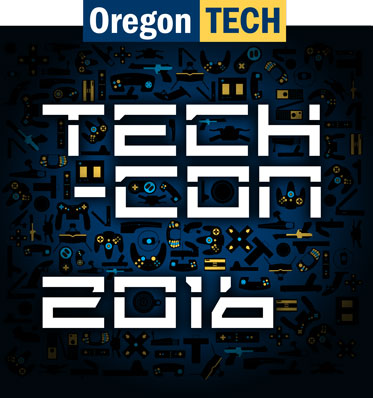
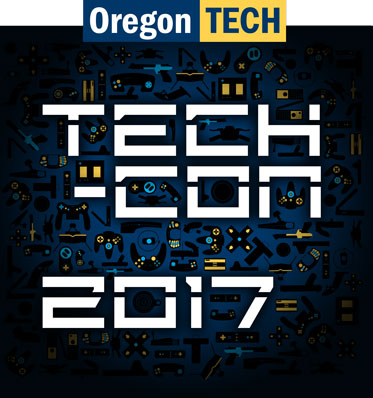
Updated to 2017 dates

Changed region(s): [[0.5308, 0.6633, 0.7668, 0.8442]]

diff --git a/site/about.html b/site/about.html
@@ -70,7 +70,7 @@ tGtfLG###W#K##############W#
 <html>
 <head>
     <meta charset="UTF-8">
-    <title>TechCon 2016 - Oregon Tech</title>
+    <title>TechCon 2017 - Oregon Tech</title>
     <link rel="stylesheet" href="css/style.css" type="text/css">
     <link rel="icon" type="image/x-icon" href="images/favicon.ico">
     
@@ -114,7 +114,7 @@ tGtfLG###W#K##############W#
                             For the fifth time at Oregon Tech, TechCon is back and ready to game for all students of Oregon Tech. TechCon was first created in 2012. It offered a large-scale program for residents of Oregon Tech's Housing & Residence Life to experience a fun environment catered to the nerdier side of life. Since then, TechCon has attempted to grow and refine what is offered. We're excited to bring you this year's event lineup.
                         </p>
                         <p>
-                            TechCon 2016 plans to bring even more fun and excitement than ever in the past! We've got consoles from old to new that you can play on all day long. We've got casual board and card games including Settlers of Catan, Arkham Horror, Munchkin, Betrayal At House On The Hill, and Cards Against Humanity. There's also a League of Legends tournament to watch or participate in. Head over to the <a href="schedule.html">Schedule page</a> for a full list of what we've got planned. 
+                            TechCon 2017 plans to bring even more fun and excitement than ever in the past! We've got consoles from old to new that you can play on all day long. We've got casual board and card games including Settlers of Catan, Arkham Horror, Munchkin, Betrayal At House On The Hill, and Cards Against Humanity. There's also a League of Legends tournament to watch or participate in. Head over to the <a href="schedule.html">Schedule page</a> for a full list of what we've got planned. 
                         </p>
                         <p>
                             Board and video games not your cup 'o tea? Well that's just fine. We've got a bunch of other things to do. Throughout both days, we'll have prizes, movies, and the casino games. There'll also be periodic games and activities featuring a wide variety of interests including Magic the Gathering, D&D-type RPGs, League of Legends, Cosplay, and more.
@@ -128,7 +128,7 @@ tGtfLG###W#K##############W#
                     <div>
                         <p>*Subject to change*</p>
                         <center><a href="images/TechCon-2016-Floor-Plan-1-MQ.png" target="_blank">
-                            <img src="images/TechCon-2016-Floor-Plan-1-LQ.png" alt="TechCon 2016 College Union Floor Plan" width="650px">
+                            <img src="images/TechCon-2016-Floor-Plan-1-LQ.png" alt="TechCon 2017 College Union Floor Plan" width="650px">
                         </a></center>
                     </div>
                 </div>
@@ -219,7 +219,7 @@ tGtfLG###W#K##############W#
                                 <img src="images/cosplay14.jpg" alt="" width="368px" height="245px"> <span><font size="4" color="white"><center>Fun for all ages</center></font></span>
                             </li>
                             <li >
-                                <img src="images/games_lol2.jpg" alt="" width="368px" height="245px"> <span><font size="4" color="white"><center>Sign up for the 2016 League Tournament</center></font></span>
+                                <img src="images/games_lol2.jpg" alt="" width="368px" height="245px"> <span><font size="4" color="white"><center>Sign up for the 2017 League Tournament</center></font></span>
                             </li>
                             <li>
                                 <script type="text/javascript">getRandomImage(imageURLs)</script>
@@ -237,7 +237,7 @@ tGtfLG###W#K##############W#
                         This page was last updated <script type="text/javascript">getDateLastModified()</script>.
                     </br>
                         Questions/comments/concerns?
-                        Contact <a href="mailto:res.life@oit.edu?subject=TechCon">res.life@oit.edu</a> or the site admin at <a href="mailto:dakota.kanner@oit.edu?subject=TechCon">dakota.kanner@oit.edu.</a>
+                        Contact <a href="mailto:res.life@oit.edu?subject=TechCon">res.life@oit.edu</a> or the site admin at <a href="mailto:dak@seeq.com?subject=TechCon">dak@seeq.com.</a>
                     </p>
                 </div>
             </div>

diff --git a/site/schedule.html b/site/schedule.html
@@ -70,7 +70,7 @@ tGtfLG###W#K##############W#
 <html>
 <head>
     <meta charset="UTF-8">
-    <title>TechCon 2016 - Oregon Tech</title>
+    <title>TechCon 2017 - Oregon Tech</title>
     <link rel="stylesheet" href="css/style.css" type="text/css">
     <link rel="icon" type="image/x-icon" href="images/favicon.ico">
     
@@ -119,7 +119,7 @@ tGtfLG###W#K##############W#
                         <table width="90%">
                             <tr>
                                 <td width="100%">
-                                    <h3>Saturday, Jan 16 Detailed Schedule</h3>
+                                    <h3>Saturday, Jan 14 Detailed Schedule</h3>
                                 </td>
                                 <!--<td width="5%"></td>
                                 <td width="45%">
@@ -150,7 +150,7 @@ tGtfLG###W#K##############W#
                                         Board and card games ~ Mt. Shasta Fireplace Lounge
                                     </p>
                                     <p>
-                                        League of Legends free-play ~ Purvine
+                                        League of Legends free-play ~ PV
                                     </p>
                                     <p>
                                         Video game free-play ~ Crater Lake Complex
@@ -284,11 +284,11 @@ tGtfLG###W#K##############W#
                 </div>
                 <div class="content-schedule">
                     <div>
-                        <h3>Saturday, Jan 16 Schedule</h3>
+                        <h3>Saturday, Jan 14 Schedule</h3>
                     </div>
                     <div>
                         <center><a href="images/TechCon-2016-Public-Events-Day-1-HQ.png" target="_blank">
-                            <img src="images/TechCon-2016-Public-Events-Day-1-LQ.png" alt="TechCon 2016 Visual Schedule" width="650px">
+                            <img src="images/TechCon-2016-Public-Events-Day-1-LQ.png" alt="TechCon 2017 Visual Schedule" width="650px">
                         </a></center>
                     </div>
                 </div>
@@ -298,7 +298,7 @@ tGtfLG###W#K##############W#
                     </div>
                     <div>
                         <center><a href="images/TechCon-2016-Floor-Plan-1-MQ.png" target="_blank">
-                            <img src="images/TechCon-2016-Floor-Plan-1-LQ.png" alt="TechCon 2016 College Union Floor Plan" width="650px">
+                            <img src="images/TechCon-2016-Floor-Plan-1-LQ.png" alt="TechCon 2017 College Union Floor Plan" width="650px">
                         </a></center>
                     </div>
                 </div>
@@ -308,7 +308,7 @@ tGtfLG###W#K##############W#
                         This page was last updated <script type="text/javascript">getDateLastModified()</script>.
                     <br/>
                         Questions/comments/concerns?
-                        Contact <a href="mailto:res.life@oit.edu?subject=TechCon">res.life@oit.edu</a> or the site admin at <a href="mailto:dakota.kanner@oit.edu?subject=TechCon">dakota.kanner@oit.edu.</a>
+                        Contact <a href="mailto:res.life@oit.edu?subject=TechCon">res.life@oit.edu</a> or the site admin at <a href="mailto:dak@seeq.com?subject=TechCon">dak@seeq.com.</a>
                     </p>
                 </div>
             </div>

diff --git a/site/registerlol.html b/site/registerlol.html
@@ -70,7 +70,7 @@ tGtfLG###W#K##############W#
 <html>
 <head>
     <meta charset="UTF-8">
-    <title>TechCon 2016 - Oregon Tech</title>
+    <title>TechCon 2017 - Oregon Tech</title>
     <link rel="stylesheet" href="css/style.css" type="text/css">
     <link rel="icon" type="image/x-icon" href="images/favicon.ico">
     
@@ -119,7 +119,7 @@ tGtfLG###W#K##############W#
                                 <center><b><a href="images/lolrules.jpg">Please review the rules before entering.</a></b></center></br>
                             </p>
                             <a href="docs/2016_league_poster_hq.png" target="_blank">
-                                <img src="docs/2016_league_poster_lq.png" alt="TechCon 2016 League Banner" width="475px">
+                                <img src="docs/2016_league_poster_lq.png" alt="TechCon 2017 League Banner" width="475px">
                             </a>
                             </br></br>
                             <iframe src="https://docs.google.com/forms/d/196l1WusR3FpSXrvugxLomKJEzj2oman6udil6_RY8f4/viewform?embedded=true" width="475" height="800" frameborder="0" marginheight="0" marginwidth="0">Loading...</iframe>
@@ -129,12 +129,12 @@ tGtfLG###W#K##############W#
                             </br>Meet at 11:45 AM at the CU signup table before your event(s) for debriefing.</br></br>
                             <span>ARAM</span>
                             <p>    
-                                1/16 at noon ~ Purvine Hall
+                                1/14 at noon ~ Purvine Hall
                             </p>
-                            <span>1v1 and 5v5</span>
+                            <!--<span>1v1 and 5v5</span>
                             <p>
                                 1/17 at noon ~ Purvine Hall
-                            </p>
+                            </p>-->
                         </div>
                         <div><br/><br/><br/></div>
                     </div>
@@ -145,7 +145,7 @@ tGtfLG###W#K##############W#
                         This page was last updated <script type="text/javascript">getDateLastModified()</script>.
                     <br/>
                         Questions/comments/concerns?
-                        Contact <a href="mailto:res.life@oit.edu?subject=TechCon">res.life@oit.edu</a> or the site admin at <a href="mailto:dakota.kanner@oit.edu?subject=TechCon">dakota.kanner@oit.edu.</a>
+                        Contact <a href="mailto:res.life@oit.edu?subject=TechCon">res.life@oit.edu</a> or the site admin at <a href="mailto:dak@seeq.com?subject=TechCon">dak@seeq.com.</a>
                     </p>
                 </div>
             </div>

diff --git a/site/register.html b/site/register.html
@@ -70,7 +70,7 @@ tGtfLG###W#K##############W#
 <html>
 <head>
     <meta charset="UTF-8">
-    <title>TechCon 2016 - Oregon Tech</title>
+    <title>TechCon 2017 - Oregon Tech</title>
     <link rel="stylesheet" href="css/style.css" type="text/css">
     <link rel="icon" type="image/x-icon" href="images/favicon.ico">
     
@@ -109,7 +109,7 @@ tGtfLG###W#K##############W#
                         <div>
                             <h3>General Event Registration</h3>
                             <p>
-                                Want to earn extra TechChips? Register now for any of our TechCon 2016 events. Attend and you'll get bonus chips!
+                                Want to earn extra TechChips? Register now for any of our TechCon 2017 events. Attend and you'll get bonus chips!
                             </p>
                             <p>
                                 Please enter your name, email and a list of events that you would like to register for. Events that require registration include Smash Bros and Magic the Gathering.
@@ -125,11 +125,11 @@ tGtfLG###W#K##############W#
                             <h3>Event Info</h3>
                             <span>Magic: The Gathering Tournament</span>
                             <p>
-                                1/16 at Noon ~ Cascades Dining Area
+                                1/14 at Noon ~ Cascades Dining Area
                             </p>
                             <span>Super Smash Bros Tournament</span>
                             <p>
-                                1/16 at 3:00 PM ~ Crater Lake Complex
+                                1/14 at 3:00 PM ~ Crater Lake Complex
                             </p>
                         </div>
                     </div>
@@ -140,7 +140,7 @@ tGtfLG###W#K##############W#
                         This page was last updated <script type="text/javascript">getDateLastModified()</script>.
                     <br/>
                         Questions/comments/concerns?
-                        Contact <a href="mailto:res.life@oit.edu?subject=TechCon">res.life@oit.edu</a> or the site admin at <a href="mailto:dakota.kanner@oit.edu?subject=TechCon">dakota.kanner@oit.edu.</a>
+                        Contact <a href="mailto:res.life@oit.edu?subject=TechCon">res.life@oit.edu</a> or the site admin at <a href="mailto:dak@seeq.com?subject=TechCon">dak@seeq.com.</a>
                     </p>
                 </div>
             </div>

diff --git a/site/index.html b/site/index.html
@@ -70,10 +70,10 @@ tGtfLG###W#K##############W#
 <html>
 <head>
     <meta charset="UTF-8">
-    <title>TechCon 2016 - Oregon Tech</title>
+    <title>TechCon 2017 - Oregon Tech</title>
     <link rel="stylesheet" href="css/style.css" type="text/css">
     <link rel="icon" type="image/x-icon" href="images/favicon.ico">
-    <meta name="Keywords" content="TechCon, 2016, OIT, Oregon Tech, Oregon Institute of Technology, convention, League of Legends, video game, casino, prizes">
+    <meta name="Keywords" content="TechCon, 2017, OIT, Oregon Tech, Oregon Institute of Technology, convention, League of Legends, video game, casino, prizes">
     
     <script src="js/dates.js" type="text/javascript"></script> 
     
@@ -112,7 +112,7 @@ tGtfLG###W#K##############W#
                         <h3><!--Because this picture is totally a header--><a href="images/TechCon-2016-orig.jpeg" target="blank"><img src="images/TechCon-2016-small.jpg" alt="" width="345"></a></h3>
                         <center><h2>
                             This year's TechCon will be 
-                            <br><b>Saturday, January 16th, 2016.</b>
+                            <br><b>Saturday, January 14th, 2017.</b>
                         </h2></center>
                         <br/>
                         <p>
@@ -228,7 +228,7 @@ tGtfLG###W#K##############W#
                         This page was last updated <script type="text/javascript">getDateLastModified()</script>.
                     <br/>
                         Questions/comments/concerns?
-                        Contact <a href="mailto:res.life@oit.edu?subject=TechCon">res.life@oit.edu</a> or the site admin at <a href="mailto:dakota.kanner@oit.edu?subject=TechCon">dakota.kanner@oit.edu.</a>
+                        Contact <a href="mailto:res.life@oit.edu?subject=TechCon">res.life@oit.edu</a> or the site admin at <a href="mailto:dak@seeq.com?subject=TechCon">dak@seeq.com.</a>
                     </p>
                 </div>
             </div>

diff --git a/site/500.html b/site/500.html
@@ -70,7 +70,7 @@ tGtfLG###W#K##############W#
 <html>
 <head>
 	<meta charset="UTF-8">
-	<title>TechCon 2016 - Oregon Tech</title>
+	<title>TechCon 2017 - Oregon Tech</title>
 	<link rel="stylesheet" href="css/style.css" type="text/css">
 	<link rel="icon" type="image/x-icon" href="images/favicon.ico">
 	
@@ -107,7 +107,7 @@ tGtfLG###W#K##############W#
 				<div class="content-about">
 					<div>
 						<h3>Error 500: Internal server error</h3>
-						<p>Sorry. I have no idea what you're looking for, but this probably isn't it. Try clicking one of the navigation buttons on the left. If you feel concerned for our website's integrity, please send a message to <a href="mailto:dakota.kanner@oit.edu?subject=TechCon">dakota.kanner@oit.edu.</a></p><!---->
+						<p>Sorry. I have no idea what you're looking for, but this probably isn't it. Try clicking one of the navigation buttons on the left. If you feel concerned for our website's integrity, please send a message to <a href="mailto:dak@seeq.com?subject=TechCon">dak@seeq.com.</a></p><!---->
 						<br/><br/>
 					</div>
 					<div class="featured">
@@ -120,7 +120,7 @@ tGtfLG###W#K##############W#
 						This page was last updated <script type="text/javascript">getDateLastModified()</script>.
 					<br/>
 						Questions/comments/concerns?
-						Contact <a href="mailto:res.life@oit.edu?subject=TechCon">res.life@oit.edu</a> or the site admin at <a href="mailto:dakota.kanner@oit.edu?subject=TechCon">dakota.kanner@oit.edu</a>.
+						Contact <a href="mailto:res.life@oit.edu?subject=TechCon">res.life@oit.edu</a> or the site admin at <a href="mailto:dak@seeq.com?subject=TechCon">dak@seeq.com</a>.
 					</p>
 				</div>
 			</div>

diff --git a/site/404.html b/site/404.html
@@ -70,7 +70,7 @@ tGtfLG###W#K##############W#
 <html>
 <head>
 	<meta charset="UTF-8">
-	<title>TechCon 2016 - Oregon Tech</title>
+	<title>TechCon 2017 - Oregon Tech</title>
 	<link rel="stylesheet" href="css/style.css" type="text/css">
 	<link rel="icon" type="image/x-icon" href="images/favicon.ico">
 	
@@ -107,7 +107,7 @@ tGtfLG###W#K##############W#
 				<div class="content-about">
 					<div>
 						<h3>Error 404: Page not found</h3>
-						<p>Sorry. I have no idea what you're looking for, but this probably isn't it. Try clicking one of the navigation buttons on the left. If you feel concerned for our website's integrity, please send a message to <a href="mailto:dakota.kanner@oit.edu?subject=TechCon">dakota.kanner@oit.edu.</a></p><!---->
+						<p>Sorry. I have no idea what you're looking for, but this probably isn't it. Try clicking one of the navigation buttons on the left. If you feel concerned for our website's integrity, please send a message to <a href="mailto:dak@seeq.com?subject=TechCon">dak@seeq.com.</a></p><!---->
 						<br/><br/>
 					</div>
 					<div class="featured">
@@ -120,7 +120,7 @@ tGtfLG###W#K##############W#
 						This page was last updated <script type="text/javascript">getDateLastModified()</script>.
 					<br/>
 						Questions/comments/concerns?
-						Contact <a href="mailto:res.life@oit.edu?subject=TechCon">res.life@oit.edu</a> or the site admin at <a href="mailto:dakota.kanner@oit.edu?subject=TechCon">dakota.kanner@oit.edu</a>.
+						Contact <a href="mailto:res.life@oit.edu?subject=TechCon">res.life@oit.edu</a> or the site admin at <a href="mailto:dak@seeq.com?subject=TechCon">dak@seeq.com</a>.
 					</p>
 				</div>
 			</div>

diff --git a/site/400.html b/site/400.html
@@ -70,7 +70,7 @@ tGtfLG###W#K##############W#
 <html>
 <head>
 	<meta charset="UTF-8">
-	<title>TechCon 2016 - Oregon Tech</title>
+	<title>TechCon 2017 - Oregon Tech</title>
 	<link rel="stylesheet" href="css/style.css" type="text/css">
 	<link rel="icon" type="image/x-icon" href="images/favicon.ico">
 	
@@ -107,7 +107,7 @@ tGtfLG###W#K##############W#
 				<div class="content-about">
 					<div>
 						<h3>Error 400: Bad request</h3>
-						<p>Sorry. I have no idea what you're looking for, but this probably isn't it. Try clicking one of the navigation buttons on the left. If you feel concerned for our website's integrity, please send a message to <a href="mailto:dakota.kanner@oit.edu?subject=TechCon">dakota.kanner@oit.edu.</a></p><!---->
+						<p>Sorry. I have no idea what you're looking for, but this probably isn't it. Try clicking one of the navigation buttons on the left. If you feel concerned for our website's integrity, please send a message to <a href="mailto:dak@seeq.com?subject=TechCon">dak@seeq.com.</a></p><!---->
 						<br/><br/>
 					</div>
 					<div class="featured">
@@ -120,7 +120,7 @@ tGtfLG###W#K##############W#
 						This page was last updated <script type="text/javascript">getDateLastModified()</script>.
 					<br/>
 						Questions/comments/concerns?
-						Contact <a href="mailto:res.life@oit.edu?subject=TechCon">res.life@oit.edu</a> or the site admin at <a href="mailto:dakota.kanner@oit.edu?subject=TechCon">dakota.kanner@oit.edu</a>.
+						Contact <a href="mailto:res.life@oit.edu?subject=TechCon">res.life@oit.edu</a> or the site admin at <a href="mailto:dak@seeq.com?subject=TechCon">dak@seeq.com</a>.
 					</p>
 				</div>
 			</div>
